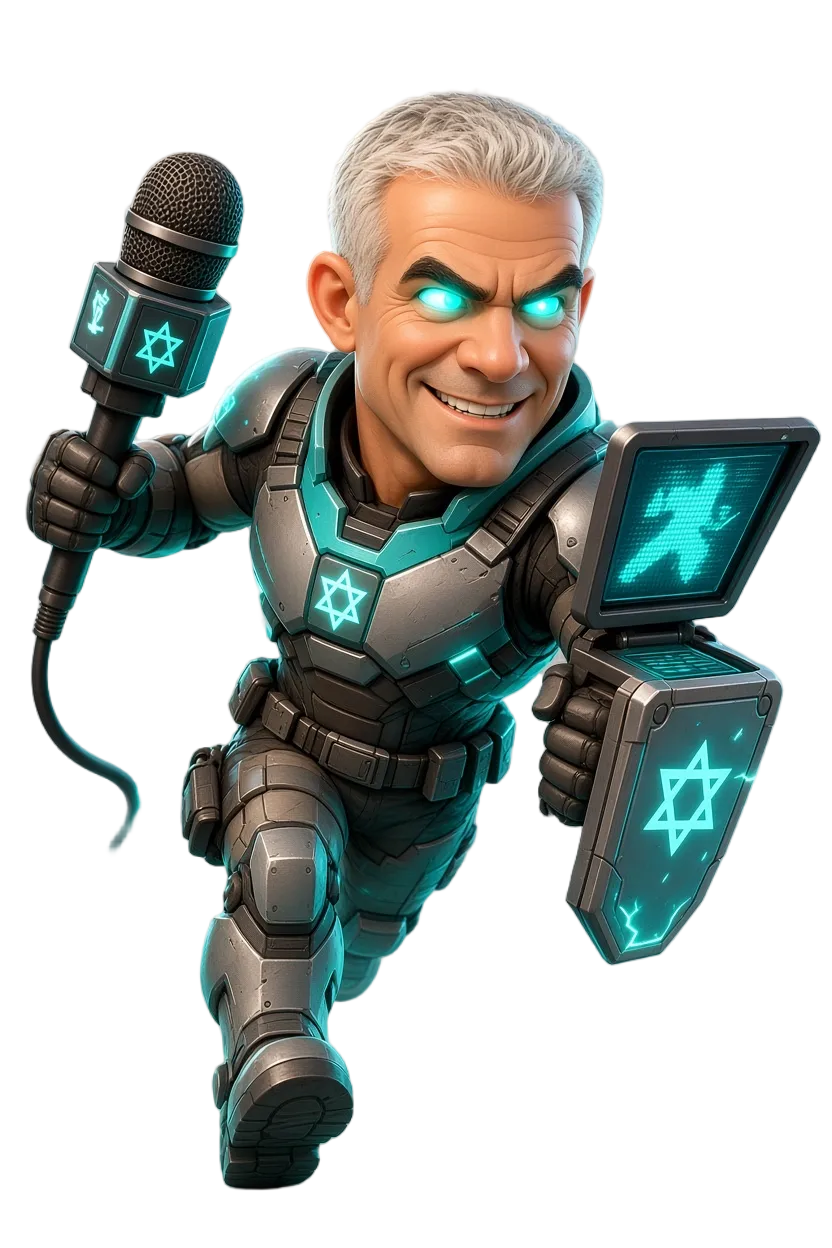
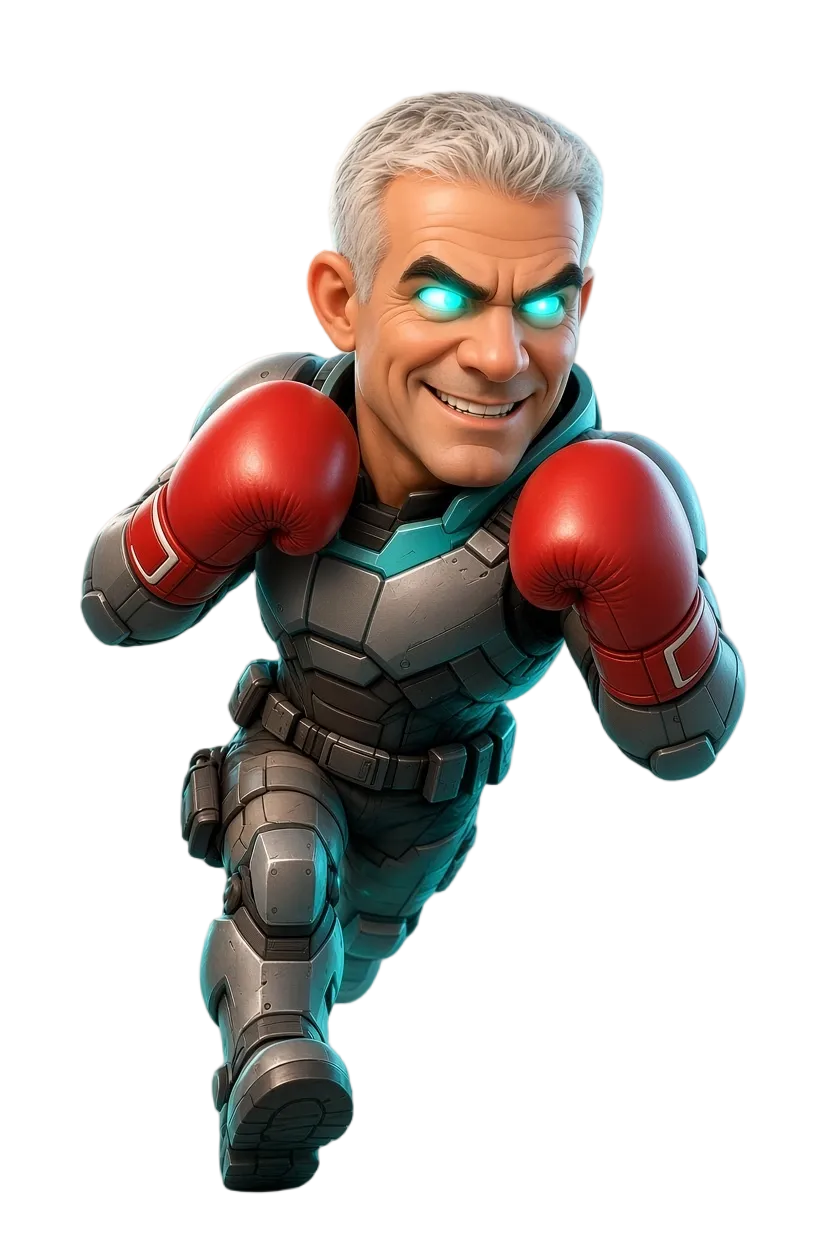
Lapid fights with red boxing gloves: new portraits, poses, glove finisher and move names

diff --git a/index.html b/index.html
@@ -754,7 +754,7 @@ function fight() {                                     // returns its length in 
 const FIN = {   // kind: throw | spear | boomerang | plane | slam | swarm | beam | line | tvoff | waves; c = effect colour
   netanyahu: ['line', '#ff2a2a'], bengvir: ['slam', '#ff7a1a', 'stamp'], smotrich: ['throw', '#9dff3a'], deri: ['throw', '#b07aff'], regev: ['throw', '#ffd84a'],
   levin: ['slam', '#ffd84a'], katz: ['swarm', '#ffffff'], saar: ['boomerang', '#ffd84a'], gotliv: ['beam', '#ff7a1a'], ohana: ['slam', '#ffd84a'],
-  karhi: ['tvoff', '#3ae0ff'], goldknopf: ['slam', '#c9a26b'], eisenkot: ['throw', '#3a8bff'], bennett: ['beam', '#3ae0ff'], lapid: ['throw', '#3ae0ff'],
+  karhi: ['tvoff', '#3ae0ff'], goldknopf: ['slam', '#c9a26b'], eisenkot: ['throw', '#3a8bff'], bennett: ['beam', '#3ae0ff'], lapid: ['throw', '#ff3a3a'],
   liberman: ['throw', '#e9f3ff'], golan: ['waves', '#ff3aa8'], tibi: ['throw', '#3aff8a'], abbas: ['throw', '#ffd84a'], jabareen: ['spear', '#3aff8a'],
   kahana: ['plane', '#e9f3ff'], tropper: ['throw', '#3a8bff'] };
 function finisher(f, def, d) {
